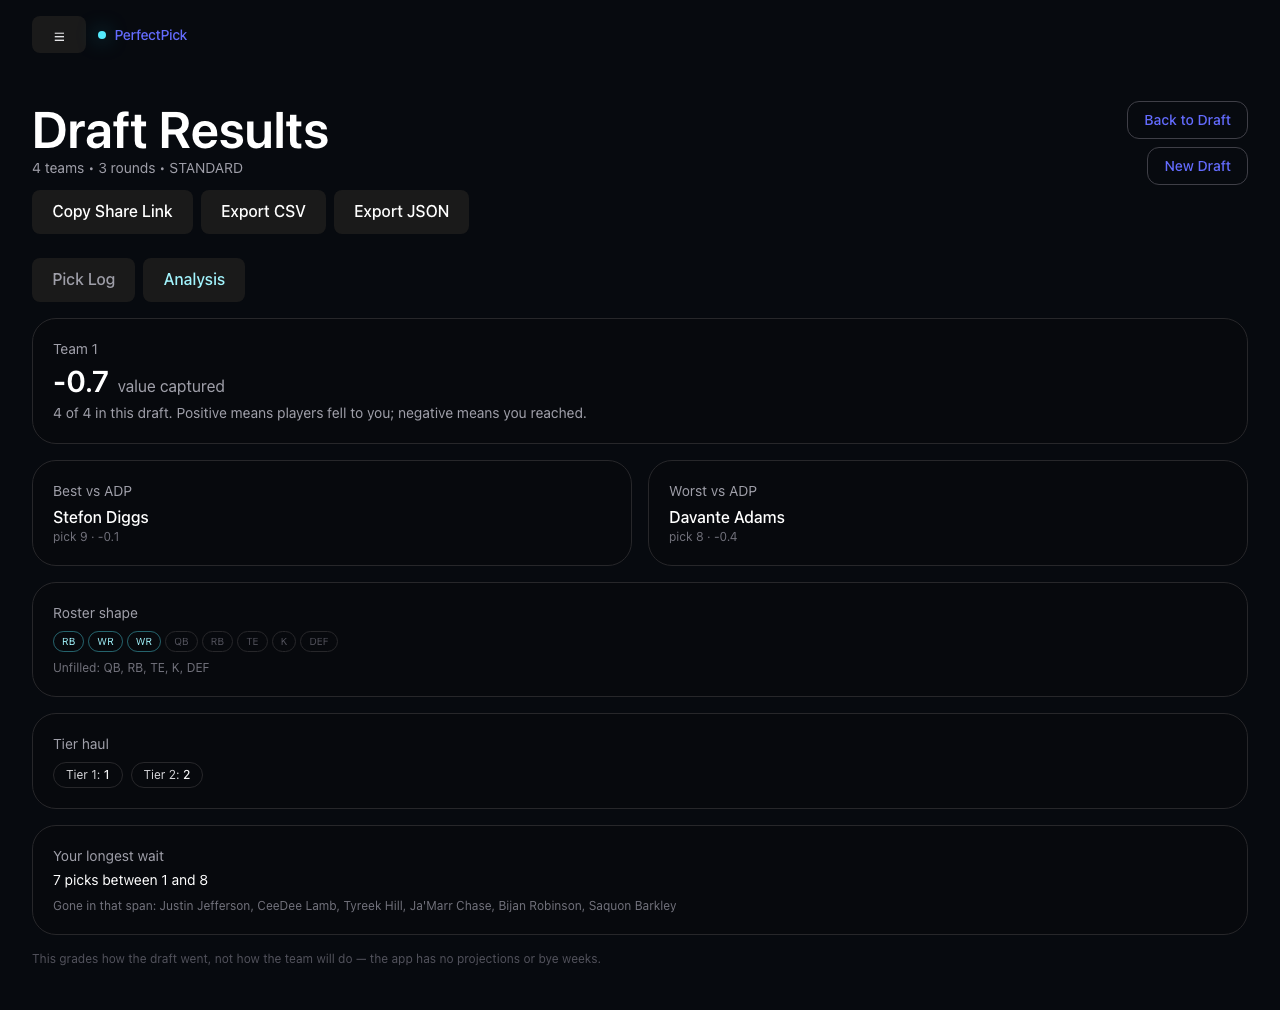
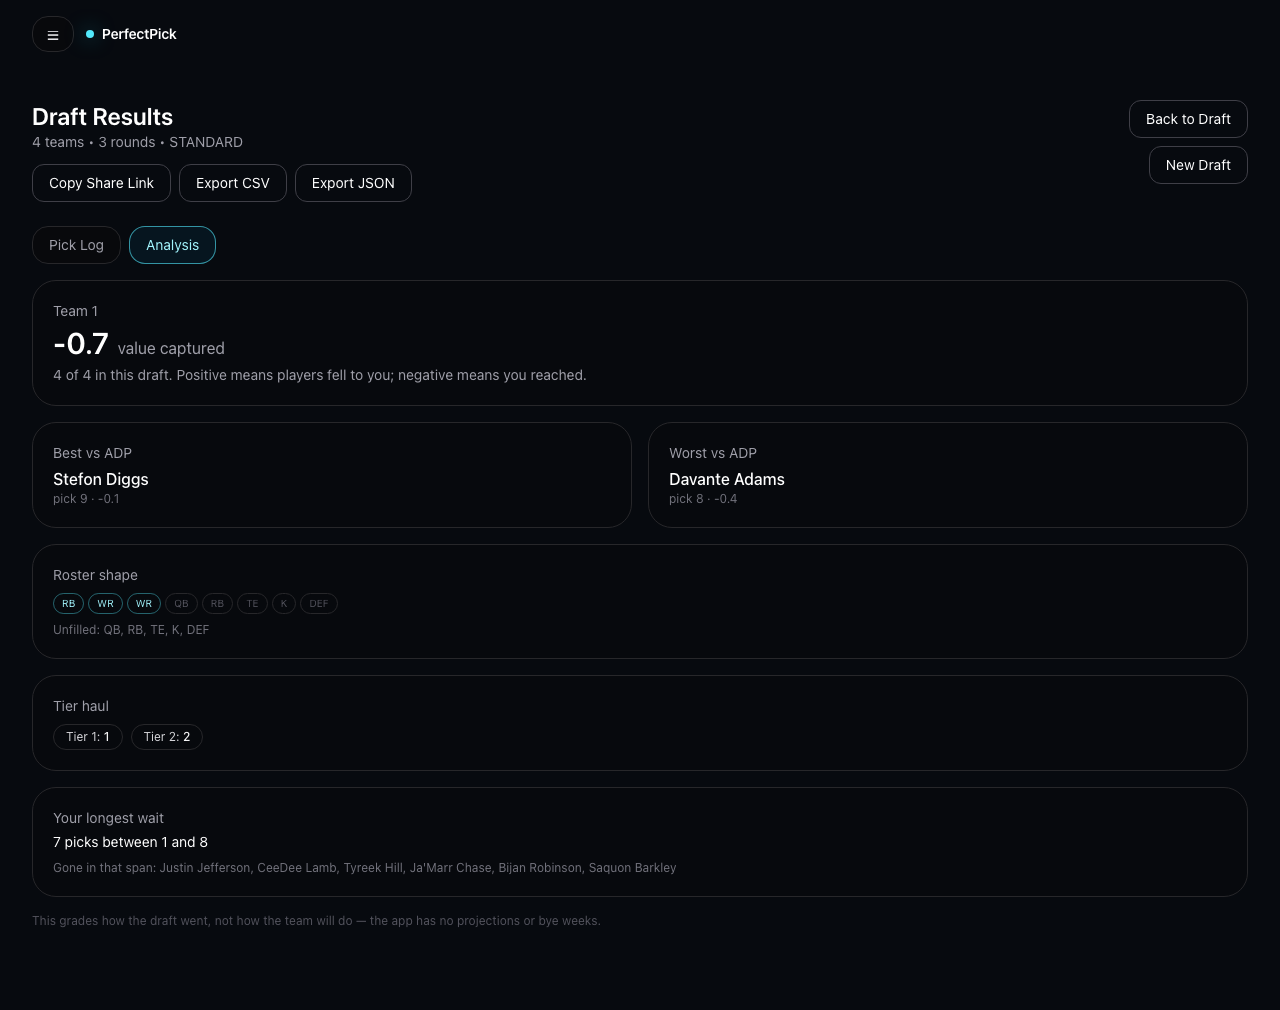
fix: remove the Vite starter's unlayered a/h1/button rules
Being unlayered, these beat every Tailwind utility regardless of specificity.
Measured on /boards before removal:

  h1.text-2xl      51.2px          -> 24px
  Link.text-white  rgb(100,108,255) -> white  (Vite purple, weight 500 -> 600)
  button           9.6/19.2px, r8  -> 8/12px, r16  (px-3 py-2, rounded-2xl)

Every page heading in the app was rendering at more than double its intended
size. The elements already carried the classes expressing intent; the starter
was simply outranking them. Removing only the button rule would have knowingly
left two identical bugs in the same file.

cursor:pointer and a :focus-visible ring are re-added deliberately in @layer
base -- Tailwind's preflight sets cursor:auto on buttons, and dropping a focus
indicator is an accessibility regression, not a cosmetic one. The ring is
scoped to :focus-visible rather than the starter's bare :focus, so it no longer
fires on mouse clicks.

Draft.jsx's Why? chip loses its ! overrides and the comment explaining a rule
that no longer exists. The board delete tests move beside the existing one in
board.spec.js so the accept and dismiss cases cannot drift apart.

Screenshots regenerated for all 8 pages.

diff --git a/frontend/tests/board.spec.js b/frontend/tests/board.spec.js
@@ -93,6 +93,7 @@ test("deleting a board removes it from the list", async ({ page }) => {
   await page.reload();
 
   await expect(page.getByTestId("board-list")).toContainText("My PPR Board");
+  page.on("dialog", (d) => d.accept());
   await page.getByRole("button", { name: "Delete My PPR Board" }).click();
 
   await expect(page.getByTestId("board-list")).toHaveCount(0);
@@ -219,4 +220,53 @@ test("screenshot — boards list", async ({ page }) => {
   await expect(page.getByTestId("board-list")).toBeVisible();
 
   await page.screenshot({ path: `${SCREENSHOTS}/boards.png`, fullPage: false });
+});
+
+// Deleting a board destroys hand-ranked work with no undo, and it sits one nav
+// item away from My drafts, which has always confirmed. The accept case above
+// passes just as green against no confirmation at all -- these are the ones
+// that actually hold the gate in place.
+test("dismissing the delete confirmation deletes nothing", async ({ page }) => {
+  let called = false;
+  await page.route(`**/boards/${BOARD_ID}`, (route) => {
+    if (route.request().method() === "DELETE") called = true;
+    return route.fulfill({ json: { ok: true } });
+  });
+
+  await page.goto("/boards");
+  await page.evaluate((id) => {
+    localStorage.setItem(
+      "perfectpick.myBoards",
+      JSON.stringify([{ id, name: "My PPR Board", updatedAt: Date.now() }])
+    );
+  }, BOARD_ID);
+  await page.reload();
+
+  page.on("dialog", (d) => d.dismiss());
+  await page.getByRole("button", { name: "Delete My PPR Board" }).click();
+
+  await expect(page.getByTestId("board-list")).toContainText("My PPR Board");
+  expect(called, "no DELETE should be sent when the dialog is dismissed").toBe(false);
+});
+
+test("the delete confirmation names the board", async ({ page }) => {
+  await page.route(`**/boards/${BOARD_ID}`, (route) => route.fulfill({ json: { ok: true } }));
+
+  await page.goto("/boards");
+  await page.evaluate((id) => {
+    localStorage.setItem(
+      "perfectpick.myBoards",
+      JSON.stringify([{ id, name: "My PPR Board", updatedAt: Date.now() }])
+    );
+  }, BOARD_ID);
+  await page.reload();
+
+  let message = "";
+  page.on("dialog", (d) => {
+    message = d.message();
+    d.dismiss();
+  });
+  await page.getByRole("button", { name: "Delete My PPR Board" }).click();
+
+  await expect.poll(() => message).toContain("My PPR Board");
 });

diff --git a/frontend/src/index.css b/frontend/src/index.css
@@ -15,15 +15,6 @@
   -moz-osx-font-smoothing: grayscale;
 }
 
-a {
-  font-weight: 500;
-  color: #646cff;
-  text-decoration: inherit;
-}
-a:hover {
-  color: #535bf2;
-}
-
 body {
   margin: 0;
   min-width: 320px;
@@ -31,27 +22,28 @@ body {
 
 html { height: 100%; }
 
-h1 {
-  font-size: 3.2em;
-  line-height: 1.1;
-}
+/* The Vite starter's `a`, `h1`, and `button` rules lived here unlayered, which
+   beats every Tailwind utility no matter how specific. Measured before removal:
+   an <h1 class="text-2xl"> rendered at 51.2px instead of 24px, and a
+   <Link class="text-white"> rendered Vite purple. The elements already carried
+   the classes expressing intent; the starter was simply outranking them.
 
-button {
-  border-radius: 8px;
-  border: 1px solid transparent;
-  padding: 0.6em 1.2em;
-  font-size: 1em;
-  font-weight: 500;
-  font-family: inherit;
-  background-color: #1a1a1a;
-  cursor: pointer;
-  transition: border-color 0.25s;
-}
-button:hover {
-  border-color: #646cff;
-}
-button:focus,
-button:focus-visible {
-  outline: 4px auto -webkit-focus-ring-color;
+   What follows is what the starter provided that Tailwind's reset does not
+   restore on its own, kept deliberately rather than by inheritance. */
+@layer base {
+  /* Tailwind's preflight sets `cursor: auto` on buttons, so without this every
+     button in the app silently loses its pointer. */
+  button:not(:disabled),
+  [role="button"]:not(:disabled) {
+    cursor: pointer;
+  }
+
+  /* Losing the focus ring is an accessibility regression, not a cosmetic one.
+     Scoped to :focus-visible so it shows for keyboard users without ringing
+     every mouse click, which the starter's bare :focus did. */
+  :focus-visible {
+    outline: 2px solid #22d3ee;
+    outline-offset: 2px;
+  }
 }
 

diff --git a/frontend/src/pages/Draft.jsx b/frontend/src/pages/Draft.jsx
@@ -596,13 +596,7 @@ export default function Draft() {
                       aria-expanded={whyId === p.id}
                       onClick={() => setWhyId((cur) => (cur === p.id ? null : p.id))}
                       title={`Why ${p.name} is here — reading never drafts anybody`}
-                      // The `!`s are not decoration: index.css carries an
-                      // unlayered `button { padding: 0.6em 1.2em; font-size:
-                      // 1em; ... }` from the Vite template, and unlayered CSS
-                      // beats every Tailwind utility whatever its specificity.
-                      // Without them this chip is 82x45 and sits on top of the
-                      // row's ADP.
-                      className="absolute bottom-2 right-2 rounded-full! border! border-zinc-700! bg-zinc-900! px-2! py-0.5! text-[11px]! font-normal! text-zinc-400 hover:text-cyan-200"
+                      className="absolute bottom-2 right-2 rounded-full border border-zinc-700 bg-zinc-900 px-2 py-0.5 text-[11px] font-normal text-zinc-400 hover:text-cyan-200"
                     >
                       Why?
                     </button>
